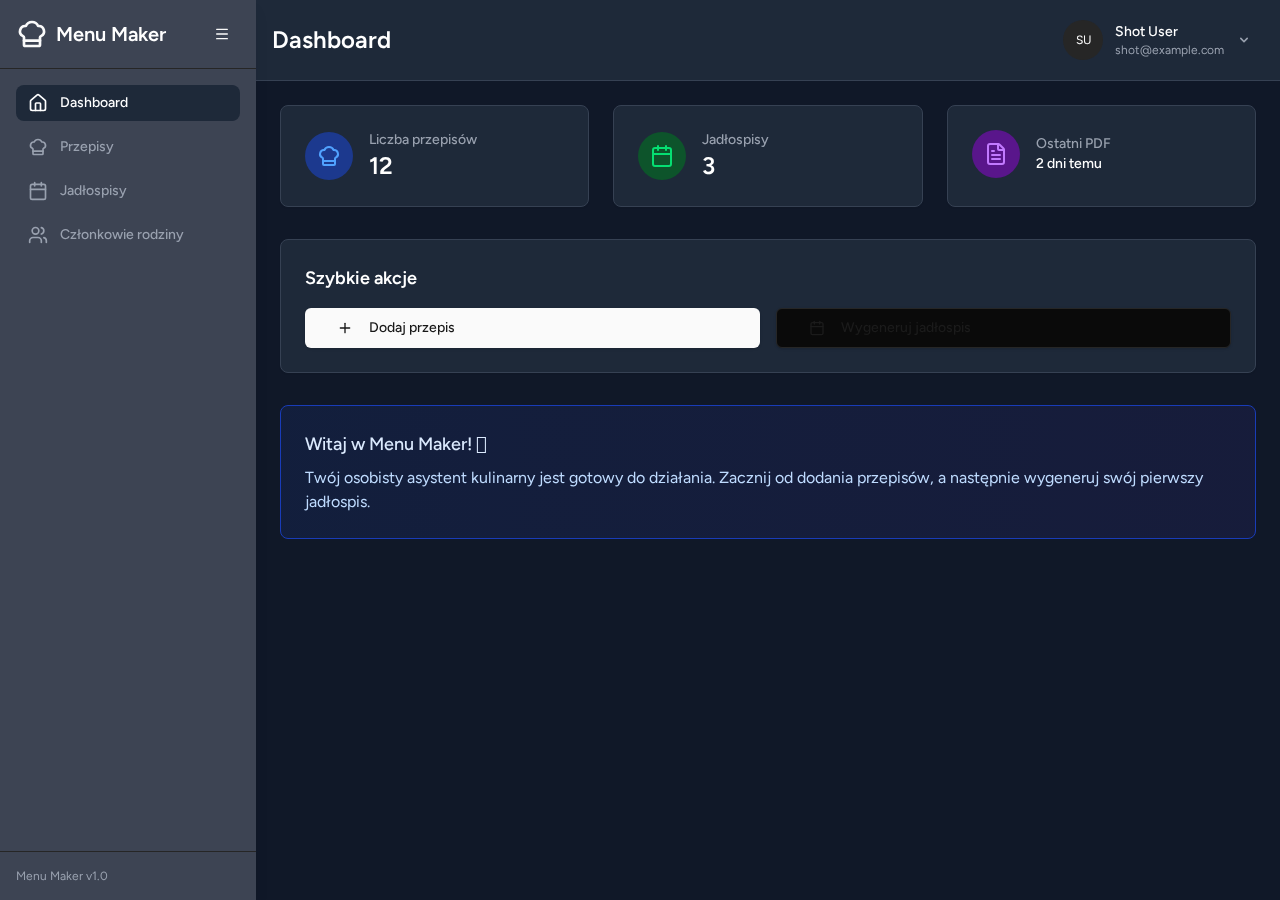
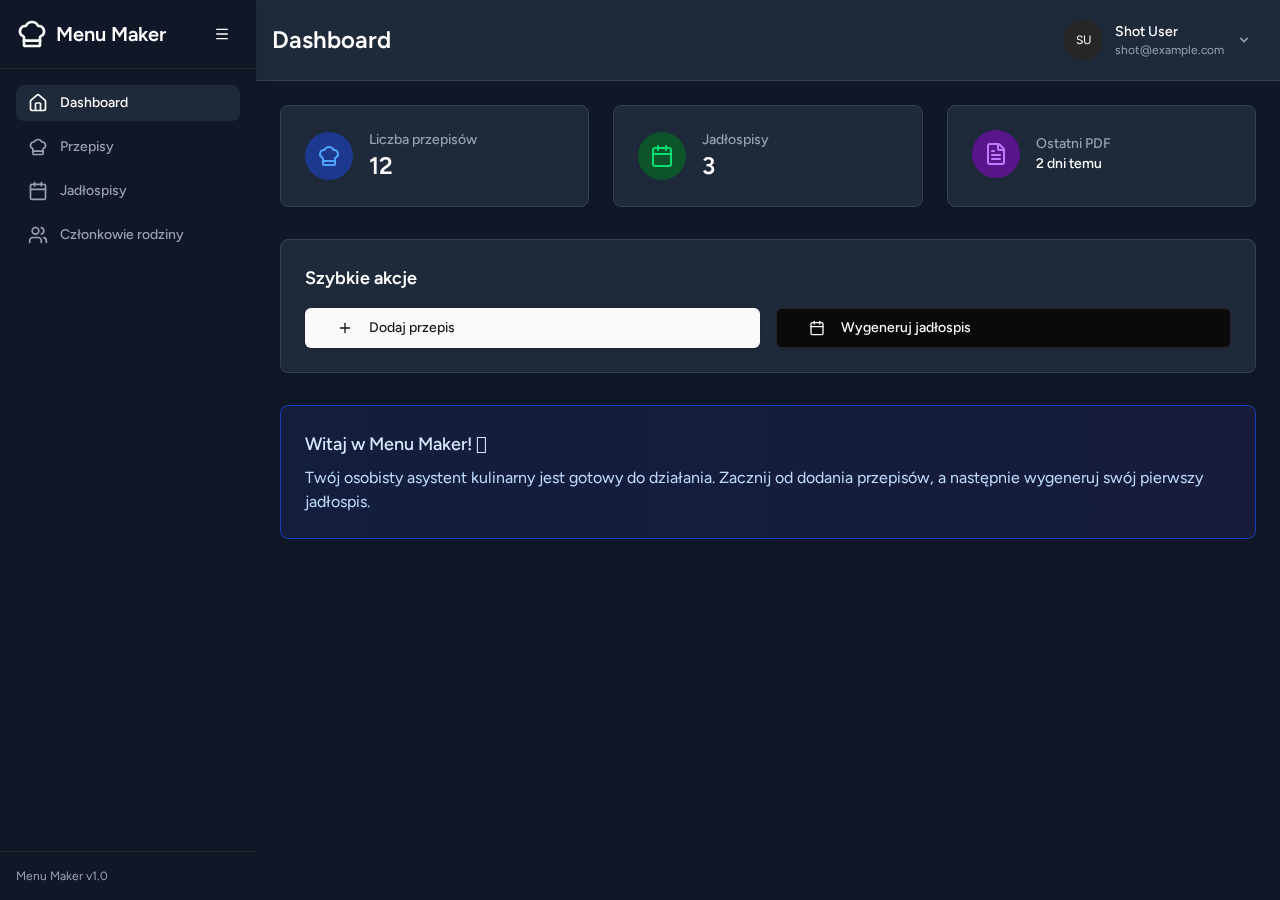
chore(tailwind-4-upgrade): docs and final visual parity fixes (p4)

Changed region(s): [[0.0, 0.0, 0.2188, 1.0], [0.625, 0.3422, 0.75, 0.3733]]

diff --git a/resources/js/Components/ui/button/index.js b/resources/js/Components/ui/button/index.js
@@ -3,24 +3,24 @@ import { cva } from "class-variance-authority";
 export { default as Button } from "./Button.vue";
 
 export const buttonVariants = cva(
-  "inline-flex items-center justify-center gap-2 whitespace-nowrap rounded-md text-sm font-medium transition-colors focus-visible:outline-none focus-visible:ring-1 focus-visible:ring-ring disabled:pointer-events-none disabled:opacity-50 [&_svg]:pointer-events-none [&_svg]:size-4 [&_svg]:shrink-0",
+  "inline-flex items-center justify-center gap-2 whitespace-nowrap rounded-md text-sm font-medium transition-colors focus-visible:outline-hidden focus-visible:ring-1 focus-visible:ring-ring disabled:pointer-events-none disabled:opacity-50 [&_svg]:pointer-events-none [&_svg]:size-4 [&_svg]:shrink-0",
   {
     variants: {
       variant: {
         default:
-          "bg-primary text-primary-foreground shadow hover:bg-primary/90",
+          "bg-primary text-primary-foreground shadow-sm hover:bg-primary/90",
         destructive:
-          "bg-destructive text-destructive-foreground shadow-sm hover:bg-destructive/90",
+          "bg-destructive text-destructive-foreground shadow-xs hover:bg-destructive/90",
         outline:
-          "border border-input bg-background shadow-sm hover:bg-accent hover:text-accent-foreground",
+          "border border-input bg-background shadow-xs hover:bg-accent hover:text-accent-foreground",
         secondary:
-          "bg-secondary text-secondary-foreground shadow-sm hover:bg-secondary/80",
+          "bg-secondary text-secondary-foreground shadow-xs hover:bg-secondary/80",
         ghost: "hover:bg-accent hover:text-accent-foreground",
         link: "text-primary underline-offset-4 hover:underline",
       },
       size: {
         default: "h-9 px-4 py-2",
-        xs: "h-7 rounded px-2",
+        xs: "h-7 rounded-sm px-2",
         sm: "h-8 rounded-md px-3 text-xs",
         lg: "h-10 rounded-md px-8",
         icon: "h-9 w-9",

diff --git a/resources/js/Components/ui/badge/index.js b/resources/js/Components/ui/badge/index.js
@@ -3,16 +3,16 @@ import { cva } from "class-variance-authority";
 export { default as Badge } from "./Badge.vue";
 
 export const badgeVariants = cva(
-  "inline-flex items-center rounded-md border px-2.5 py-0.5 text-xs font-semibold transition-colors focus:outline-none focus:ring-2 focus:ring-ring focus:ring-offset-2",
+  "inline-flex items-center rounded-md border px-2.5 py-0.5 text-xs font-semibold transition-colors focus:outline-hidden focus:ring-2 focus:ring-ring focus:ring-offset-2",
   {
     variants: {
       variant: {
         default:
-          "border-transparent bg-primary text-primary-foreground shadow hover:bg-primary/80",
+          "border-transparent bg-primary text-primary-foreground shadow-sm hover:bg-primary/80",
         secondary:
           "border-transparent bg-secondary text-secondary-foreground hover:bg-secondary/80",
         destructive:
-          "border-transparent bg-destructive text-destructive-foreground shadow hover:bg-destructive/80",
+          "border-transparent bg-destructive text-destructive-foreground shadow-sm hover:bg-destructive/80",
         outline: "text-foreground",
       },
     },

diff --git a/resources/js/Pages/FamilyMembers/Create.vue b/resources/js/Pages/FamilyMembers/Create.vue
@@ -130,7 +130,7 @@ const goBack = () => {
           <form @submit.prevent="handleSubmit" class="space-y-6">
             <!-- First Name -->
             <div class="space-y-2">
-              <Label for="first_name">Imię *</Label>
+              <Label for="first_name" class="block leading-6">Imię *</Label>
               <Input
                 id="first_name"
                 v-model="form.first_name"
@@ -147,7 +147,7 @@ const goBack = () => {
 
             <!-- Birth Date -->
             <div class="space-y-2">
-              <Label for="birth_date">Data urodzenia *</Label>
+              <Label for="birth_date" class="block leading-6">Data urodzenia *</Label>
               <Input
                 id="birth_date"
                 v-model="form.birth_date"
@@ -163,7 +163,7 @@ const goBack = () => {
 
             <!-- Gender -->
             <div class="space-y-2">
-              <Label for="gender">Płeć *</Label>
+              <Label for="gender" class="block leading-6">Płeć *</Label>
               <Select
                 :model-value="form.gender"
                 @update:model-value="handleGenderChange"

diff --git a/resources/js/Pages/FamilyMembers/Edit.vue b/resources/js/Pages/FamilyMembers/Edit.vue
@@ -134,7 +134,7 @@ const goBack = () => {
           <form @submit.prevent="handleSubmit" class="space-y-6">
             <!-- First Name -->
             <div class="space-y-2">
-              <Label for="first_name">Imię *</Label>
+              <Label for="first_name" class="block leading-6">Imię *</Label>
               <Input
                 id="first_name"
                 v-model="form.first_name"
@@ -151,7 +151,7 @@ const goBack = () => {
 
             <!-- Birth Date -->
             <div class="space-y-2">
-              <Label for="birth_date">Data urodzenia *</Label>
+              <Label for="birth_date" class="block leading-6">Data urodzenia *</Label>
               <Input
                 id="birth_date"
                 v-model="form.birth_date"
@@ -167,7 +167,7 @@ const goBack = () => {
 
             <!-- Gender -->
             <div class="space-y-2">
-              <Label for="gender">Płeć *</Label>
+              <Label for="gender" class="block leading-6">Płeć *</Label>
               <Select
                 :model-value="form.gender"
                 @update:model-value="handleGenderChange"

diff --git a/resources/js/Pages/FamilyMembers/InlineEditDialog.vue b/resources/js/Pages/FamilyMembers/InlineEditDialog.vue
@@ -215,7 +215,7 @@ const handleGenderChange = (value) => {
       <form @submit.prevent="handleSubmit" class="space-y-4">
         <!-- First Name -->
         <div class="space-y-2">
-          <Label for="first_name">Imię *</Label>
+          <Label for="first_name" class="block leading-6">Imię *</Label>
           <Input
             id="first_name"
             v-model="form.first_name"
@@ -232,7 +232,7 @@ const handleGenderChange = (value) => {
 
         <!-- Birth Date -->
         <div class="space-y-2">
-          <Label for="birth_date">Data urodzenia *</Label>
+          <Label for="birth_date" class="block leading-6">Data urodzenia *</Label>
           <Input
             id="birth_date"
             v-model="form.birth_date"
@@ -248,7 +248,7 @@ const handleGenderChange = (value) => {
 
         <!-- Gender -->
         <div class="space-y-2">
-          <Label for="gender">Płeć *</Label>
+          <Label for="gender" class="block leading-6">Płeć *</Label>
           <Select
             :model-value="form.gender"
             @update:model-value="handleGenderChange"

diff --git a/resources/js/Components/recipes/IngredientRow.vue b/resources/js/Components/recipes/IngredientRow.vue
@@ -8,7 +8,7 @@
     <div class="md:col-span-2 space-y-1">
       <label
         :for="`ingredient-${index}`"
-        class="text-sm font-medium text-foreground"
+        class="block text-sm font-medium leading-6 text-foreground"
       >
         Ingredient *
       </label>
@@ -72,7 +72,7 @@
     <div class="space-y-1">
       <label
         :for="`quantity-${index}`"
-        class="text-sm font-medium text-foreground"
+        class="block text-sm font-medium leading-6 text-foreground"
       >
         Quantity *
       </label>
@@ -102,7 +102,7 @@
     <div class="space-y-1">
       <label
         :for="`unit-${index}`"
-        class="text-sm font-medium text-foreground"
+        class="block text-sm font-medium leading-6 text-foreground"
       >
         Unit *
       </label>

diff --git a/context/changes/tailwind-4-upgrade/change.md b/context/changes/tailwind-4-upgrade/change.md
@@ -19,3 +19,4 @@ Unattended-run decisions (made on the user's behalf, recommended options):
 - Phase 1 visual review: 28 screenshots compared (PIL pixel diff + Read). Intended/accepted differences: avatar circle+size now render (v3 did not scan ui/*/index.js, v4 auto-scans), red palette slightly more vivid (v4 oklch palette), header icon x-shift (same cause). Fixed: space-y vs inline label spacing (RecipeForm labels block leading-6), DeleteUserForm trailing gap (flex gap), upgrade tool wrongly renamed variant strings 'outline' -> 'outline-solid' (reverted). Dark-mode large diffs in some pairs are mid-transition capture flakes.
 - Phase 2 decision: ran shadcn-vue@2 add --overwrite for all 15 components; the current CLI emits the redesigned 'new' style (different Button/Input/Dialog looks, no shadows, ring-3) and rewrites imports to new deps (@lucide/vue, 'cn' package), downgrades @vueuse/core to ^13 and bumps reka-ui. Rejected to protect visual parity and the requested lucide-vue-next 1.0 / vueuse 15; reverted the output and kept the components migrated by @tailwindcss/upgrade (already v4 syntax, e.g. data-highlighted, outline-hidden, shadow-xs). Only components.json changed (tailwind.config set to empty string, as required for Tailwind 4).
 - Phase 3: lucide-vue-next 1.0.0, @vueuse/core 15.0.0, concurrently 10.0.7 bumped; no code changes needed (all icon imports and reactiveOmit/useVModel still exist; composer dev concurrently flags still valid).
+- Phase 4: CLAUDE.md stack line and cursor rules updated (Boost guidelines in repo did not mention Tailwind 3, no refresh needed). Further parity fixes: index.js variant files (button, badge) are not migrated by the upgrade tool, renamed shadow/outline utilities by hand; v4 auto-source scanning now generates classes from ui/*/index.js that v3 never emitted (e.g. avatar h-10 w-10 rounded-full bg-secondary, button lg px-8), so avatar circle and lg button padding now render as designed (accepted). Inline labels inside space-y containers got block leading-6 (RecipeForm, IngredientRow, FamilyMembers forms) to keep spacing.

diff --git a/CLAUDE.md b/CLAUDE.md
@@ -1,6 +1,6 @@
 # Repository Guidelines
 
-Menu Maker plans a family's week of meals (7 days × 3 meals), scales recipe ingredients to the family, and exports a PDF with the plan and a shopping list. Stack: Laravel 13 + Inertia v2 + Vue 3, Tailwind 3 with shadcn-vue, Pest, PostgreSQL 18 in Sail (no Redis).
+Menu Maker plans a family's week of meals (7 days × 3 meals), scales recipe ingredients to the family, and exports a PDF with the plan and a shopping list. Stack: Laravel 13 + Inertia v2 + Vue 3, Tailwind 4 (CSS-first, `@tailwindcss/vite`) with shadcn-vue, Pest, PostgreSQL 18 in Sail (no Redis).
 
 ## Hard Rules
 
@@ -21,7 +21,7 @@ Menu Maker plans a family's week of meals (7 days × 3 meals), scales recipe ing
 
 - Validation in Form Requests (`app/Http/Requests/`), JSON in API Resources (`app/Http/Resources/`).
 - New PHP files start with `declare(strict_types=1);` (half of `app/` still lacks it; add it when touching a file).
-- Inertia pages: `resources/js/Pages/<Feature>/{Index,Show,Form}.vue`. Feature components go in `resources/js/Components/<Feature>/`, shadcn-vue primitives in `resources/js/Components/ui/` (config: `@components.json`). The shadcn-vue CLI is not installed; add components with `vendor/bin/sail npx shadcn-vue@2 add <component>`.
+- Inertia pages: `resources/js/Pages/<Feature>/{Index,Show,Form}.vue`. Feature components go in `resources/js/Components/<Feature>/`, shadcn-vue primitives in `resources/js/Components/ui/` (config: `@components.json`). The shadcn-vue CLI is not installed; add components with `vendor/bin/sail npx shadcn-vue@2 add <component>` (the CLI emits the redesigned style and newer deps: review the diff, never `--overwrite` existing components blindly).
 - Default locale is `pl` (`config/app.php`), with translations in `lang/pl/`.
 
 ## Testing

diff --git a/context/changes/tailwind-4-upgrade/plan.md b/context/changes/tailwind-4-upgrade/plan.md
@@ -228,10 +228,10 @@ Dev-only tooling; rollback is `git revert` of the phase commits.
 
 #### Automated
 
-- [ ] 4.1 Larastan passes
-- [ ] 4.2 Pint passes
-- [ ] 4.3 Pest passes
-- [ ] 4.4 Build passes
+- [x] 4.1 Larastan passes
+- [x] 4.2 Pint passes
+- [x] 4.3 Pest passes
+- [x] 4.4 Build passes
 
 #### Manual
 
